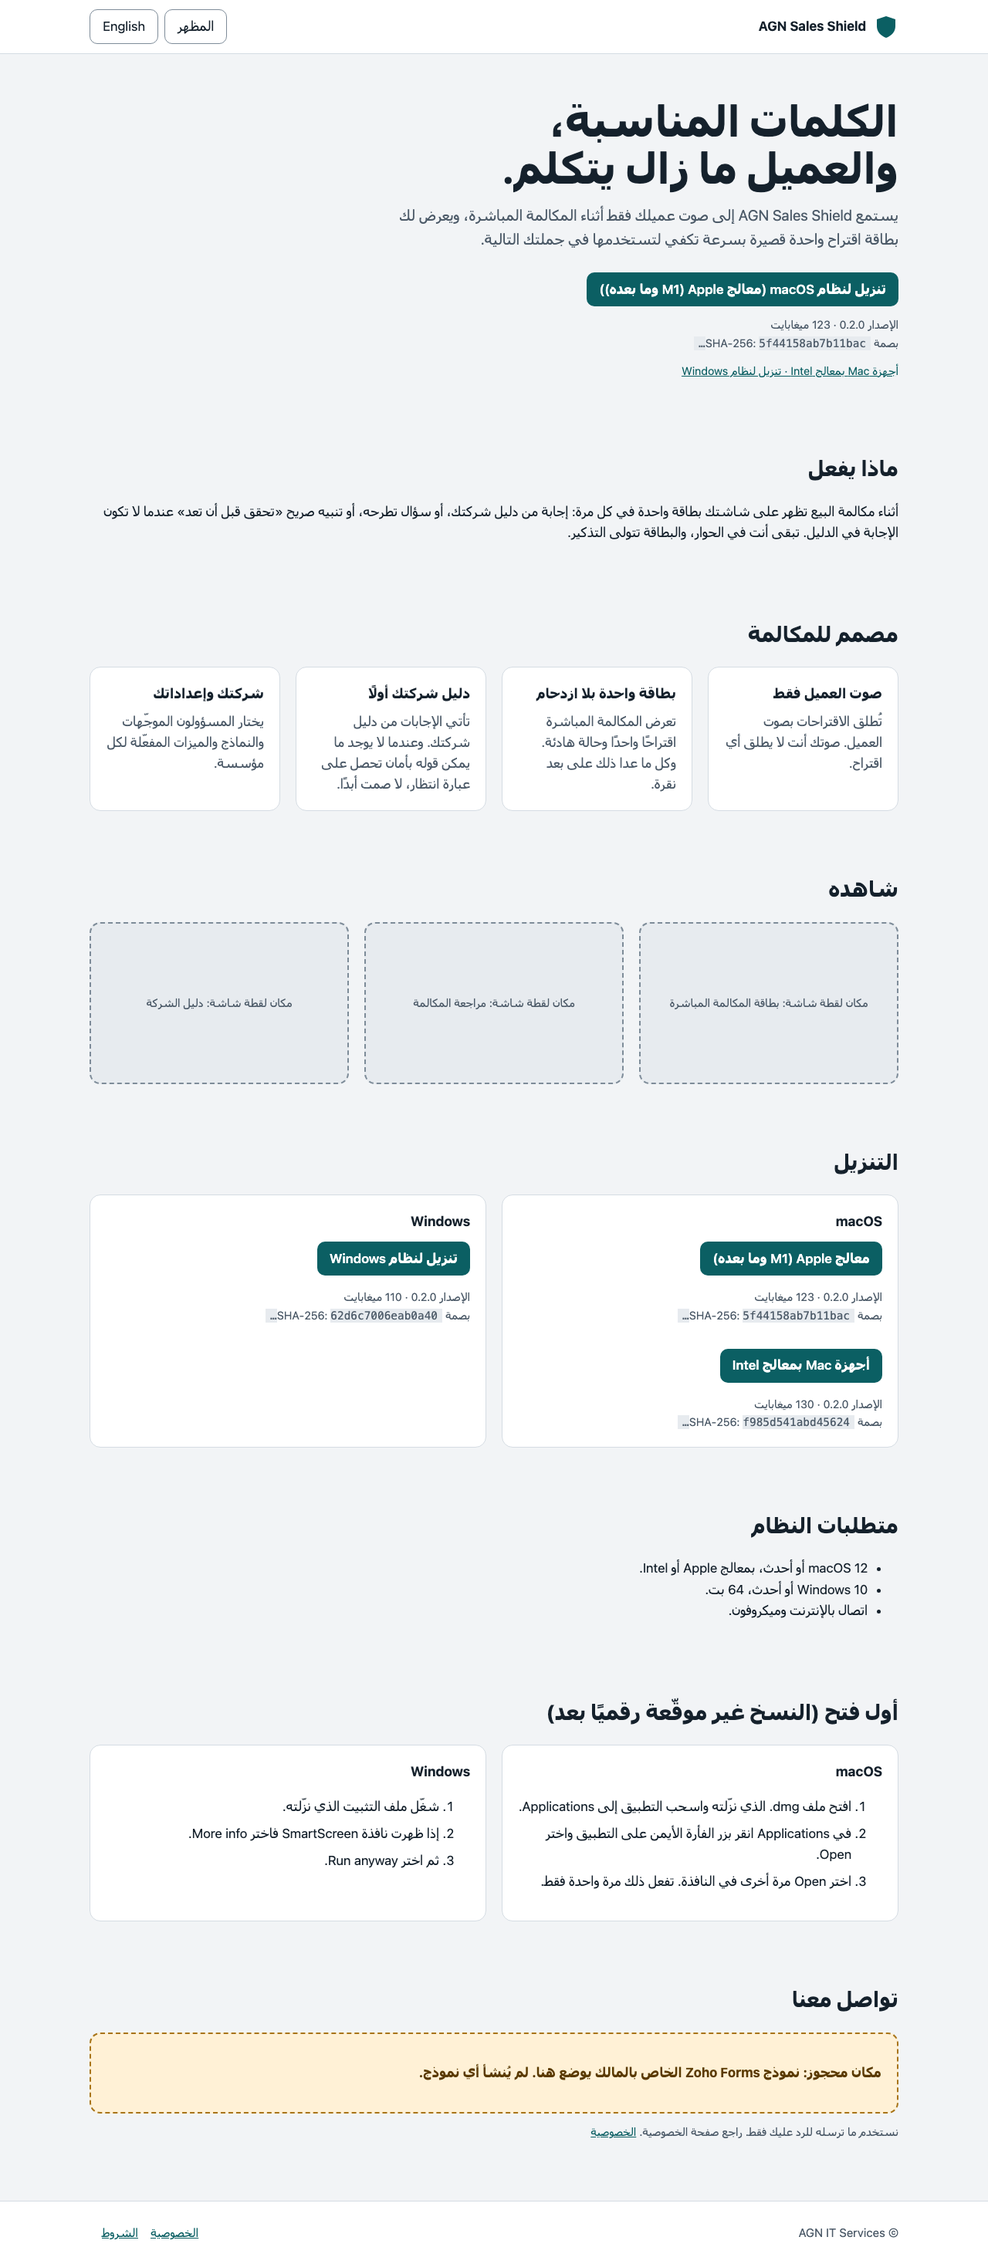
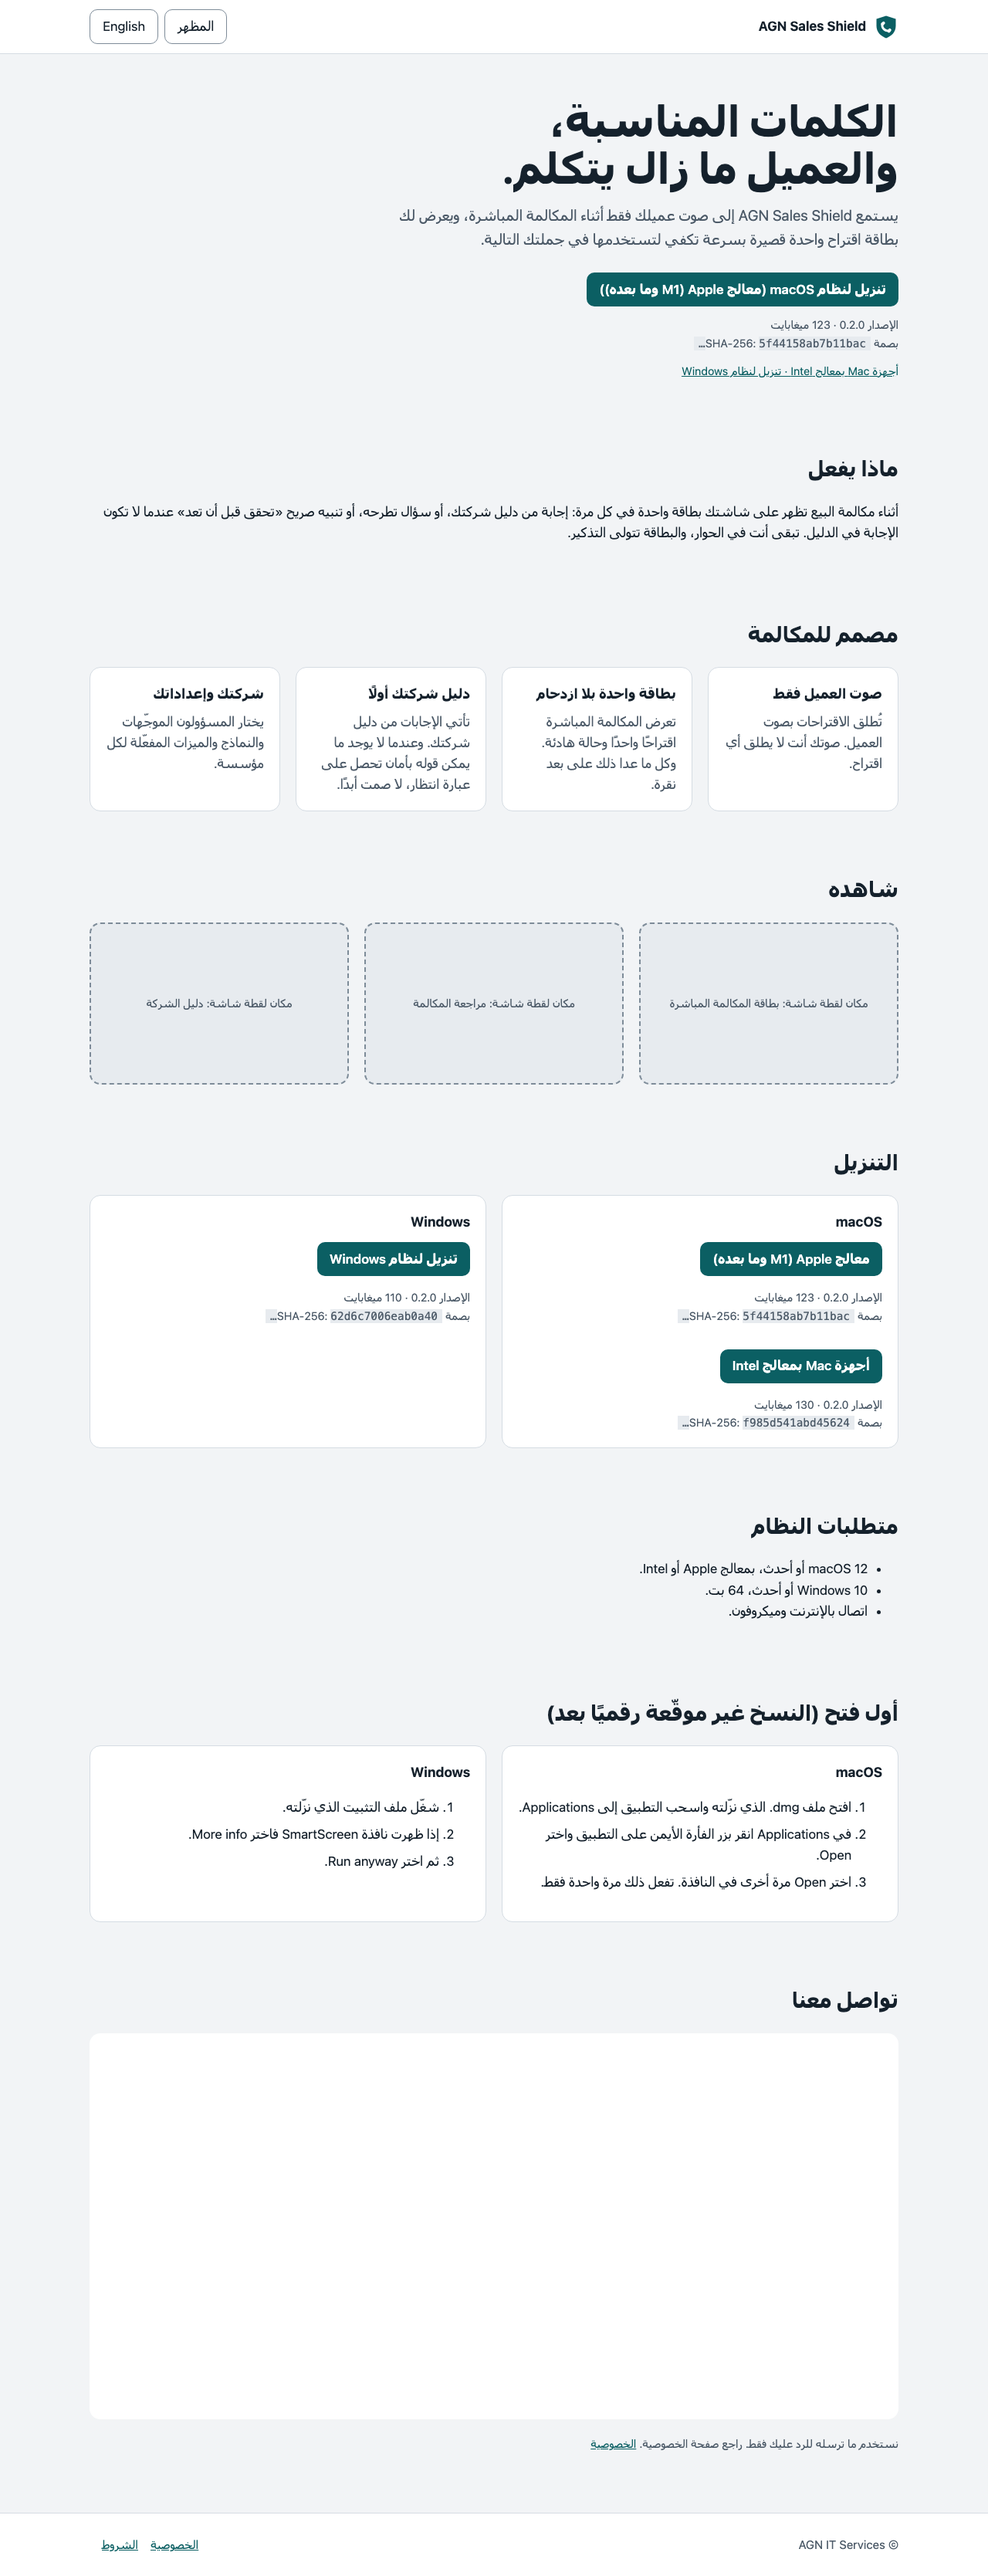
feat(landing): embed the owner's Zoho signup form, allow forms.zohopublic.com in the CSP

diff --git a/apps/landing/i18n.js b/apps/landing/i18n.js
@@ -51,7 +51,6 @@ window.I18N = {
     "inst.win.2": "If SmartScreen appears, choose More info.",
     "inst.win.3": "Choose Run anyway.",
     "form.h2": "Talk to us",
-    "form.slot": "PLACEHOLDER: the owner's Zoho Forms embed goes here. No form has been created.",
     "form.privacy": "We use what you send only to reply to you. See the Privacy page.",
     "foot.by": "AGN IT Services",
     "legal.draft": "DRAFT, owner review",
@@ -106,7 +105,6 @@ window.I18N = {
     "inst.win.2": "إذا ظهرت نافذة SmartScreen فاختر More info.",
     "inst.win.3": "ثم اختر Run anyway.",
     "form.h2": "تواصل معنا",
-    "form.slot": "مكان محجوز: نموذج Zoho Forms الخاص بالمالك يوضع هنا. لم يُنشأ أي نموذج.",
     "form.privacy": "نستخدم ما ترسله للرد عليك فقط. راجع صفحة الخصوصية.",
     "foot.by": "AGN IT Services",
     "legal.draft": "مسودة، بانتظار مراجعة المالك",

diff --git a/apps/landing/index.html b/apps/landing/index.html
@@ -71,10 +71,9 @@
 
   <section aria-labelledby="form">
     <h2 id="form" data-i18n="form.h2">Talk to us</h2>
-    <!-- PLACEHOLDER: paste the owner's Zoho Forms embed code inside #zoho-form. Never invent a form. -->
-    <div class="slot" id="zoho-form">
-      <p><strong data-i18n="form.slot">PLACEHOLDER</strong></p>
-    </div>
+    <iframe class="zoho-form" aria-label="Sales Shield Signup" title="Sales Shield Signup" loading="lazy"
+      src="https://forms.zohopublic.com/agncomputerllc/form/SalesShieldSignup/formperma/95zC6xcBOHVHXpGkfczaurMCdOmUN1bSpPIhPdLDy-Q"
+      width="100%" height="500" frameborder="0" style="border:0"></iframe>
     <p class="meta"><span data-i18n="form.privacy"></span> <a href="privacy.html" data-i18n="nav.privacy">Privacy</a></p>
   </section>
 </div>

diff --git a/apps/landing/styles.css b/apps/landing/styles.css
@@ -274,3 +274,5 @@ code {
     justify-content: center;
   }
 }
+
+.zoho-form { width: 100%; height: 500px; border: 0; border-radius: 14px; background: #fff; }
